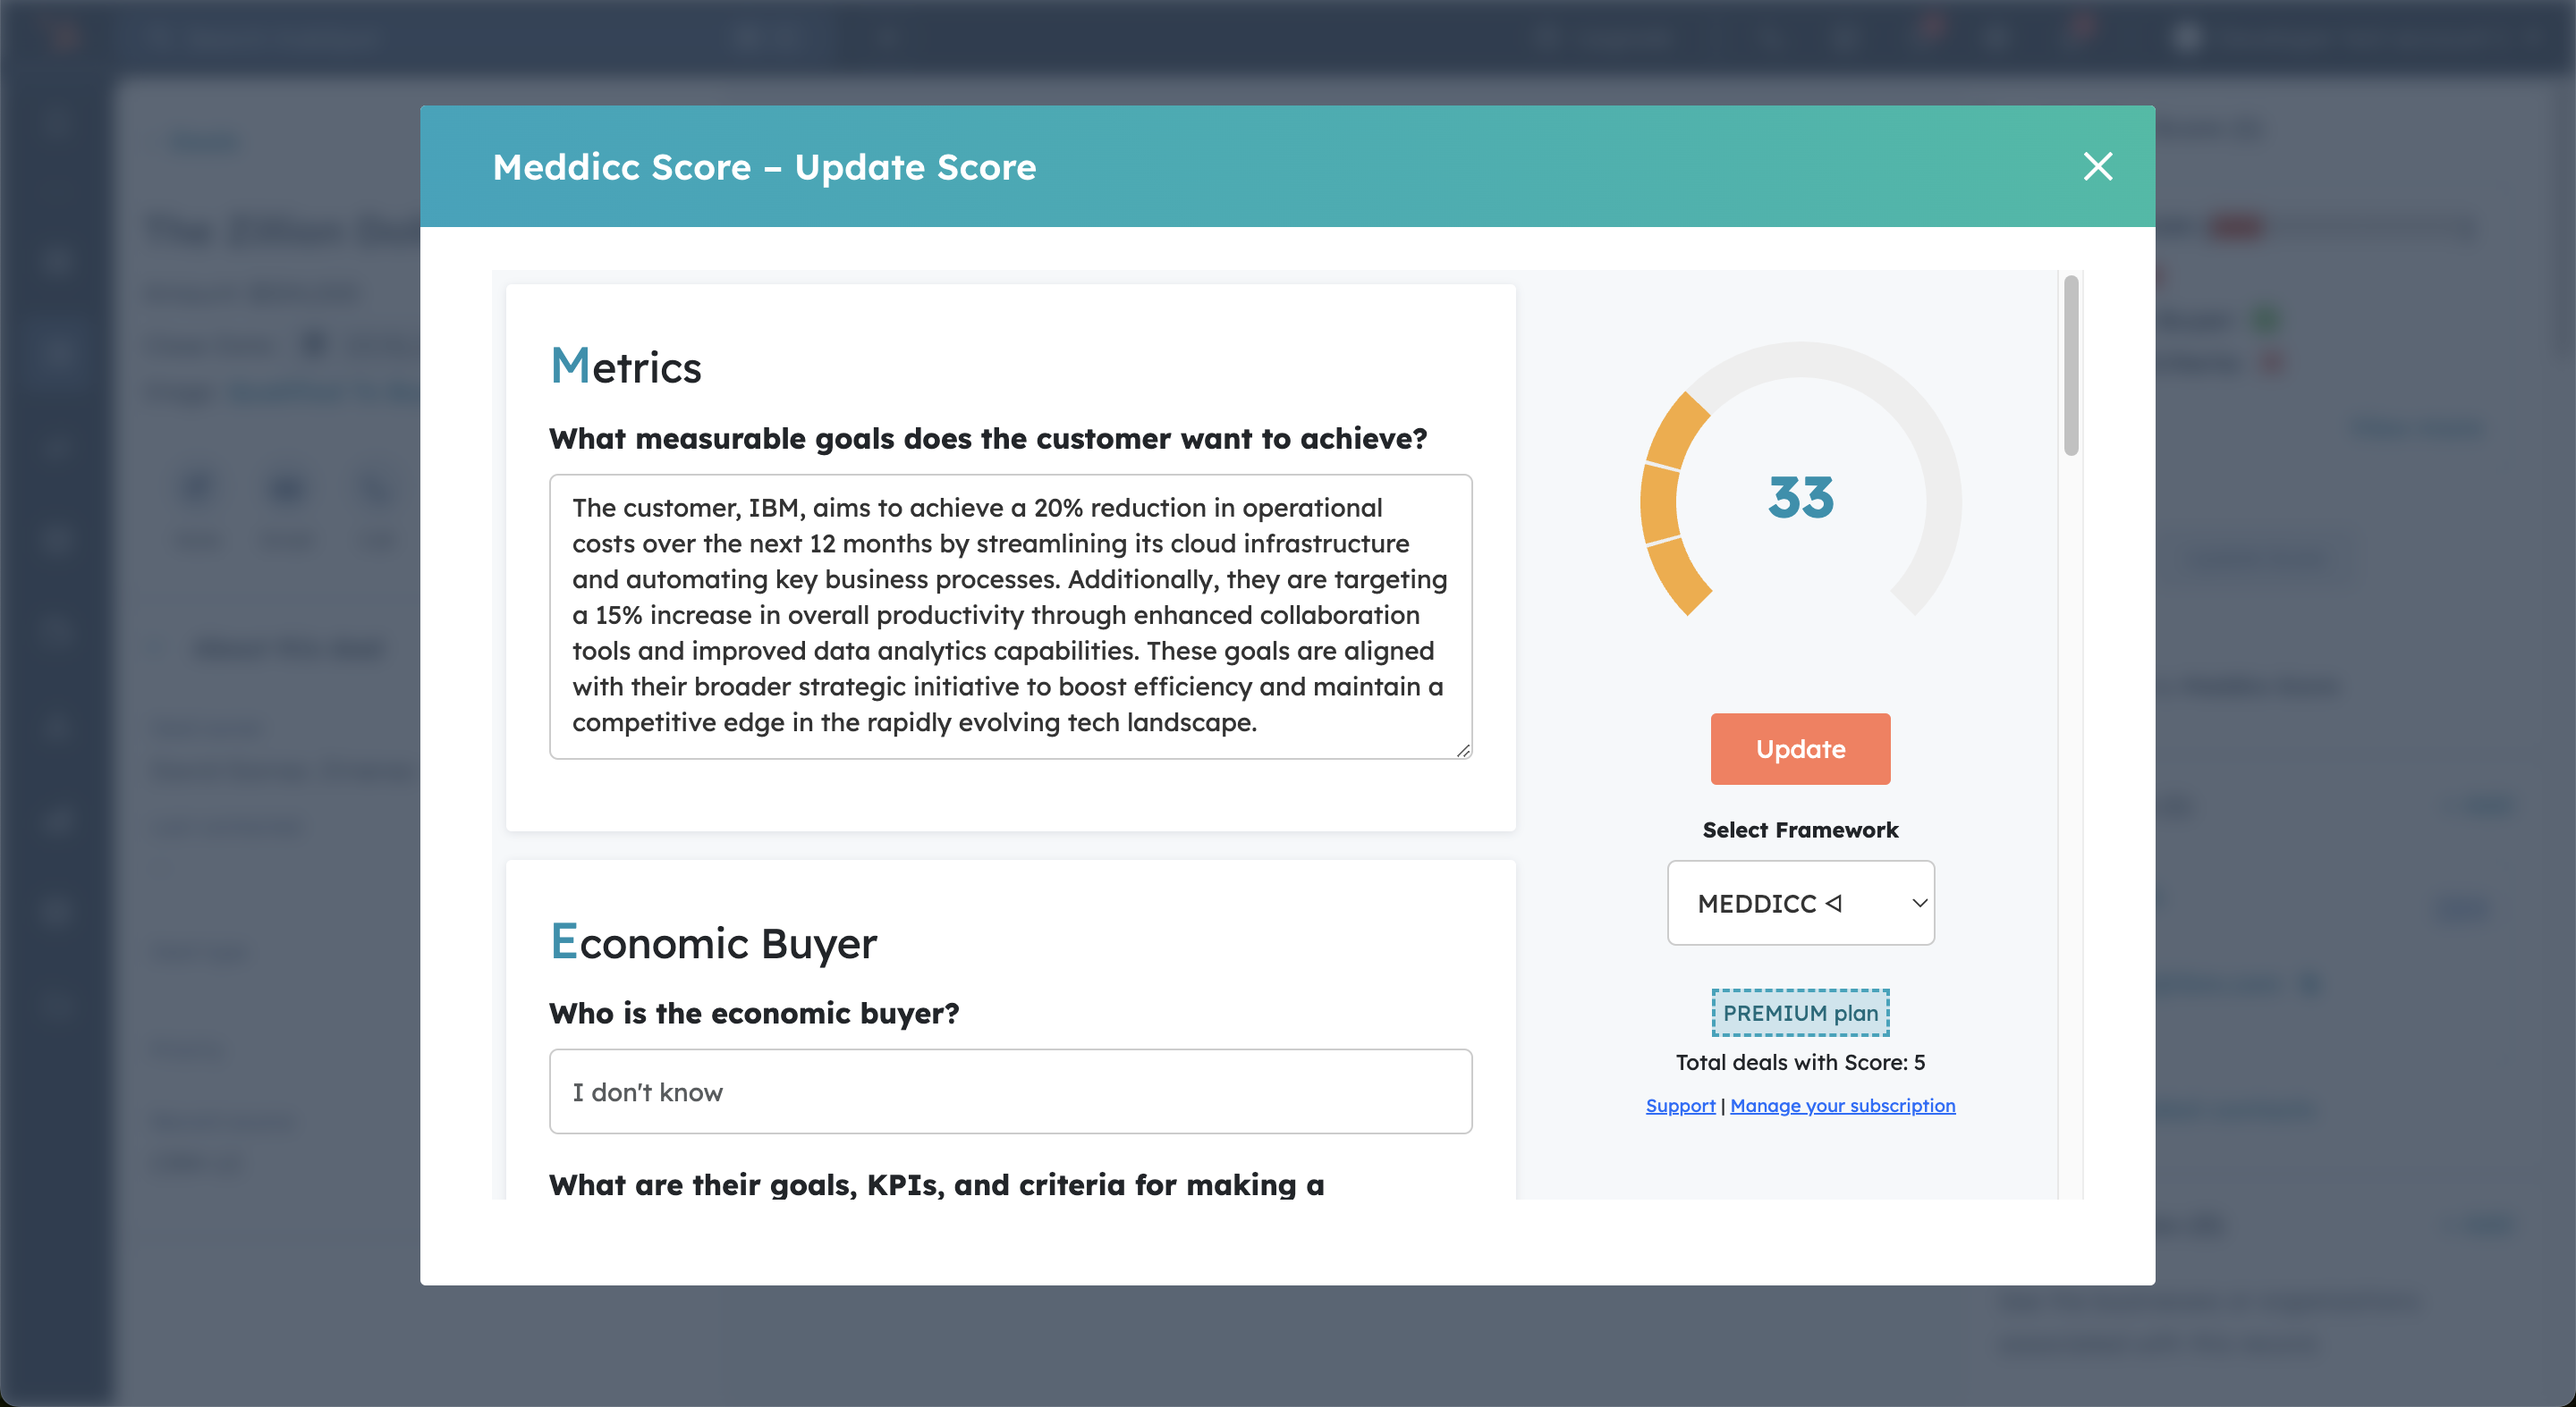
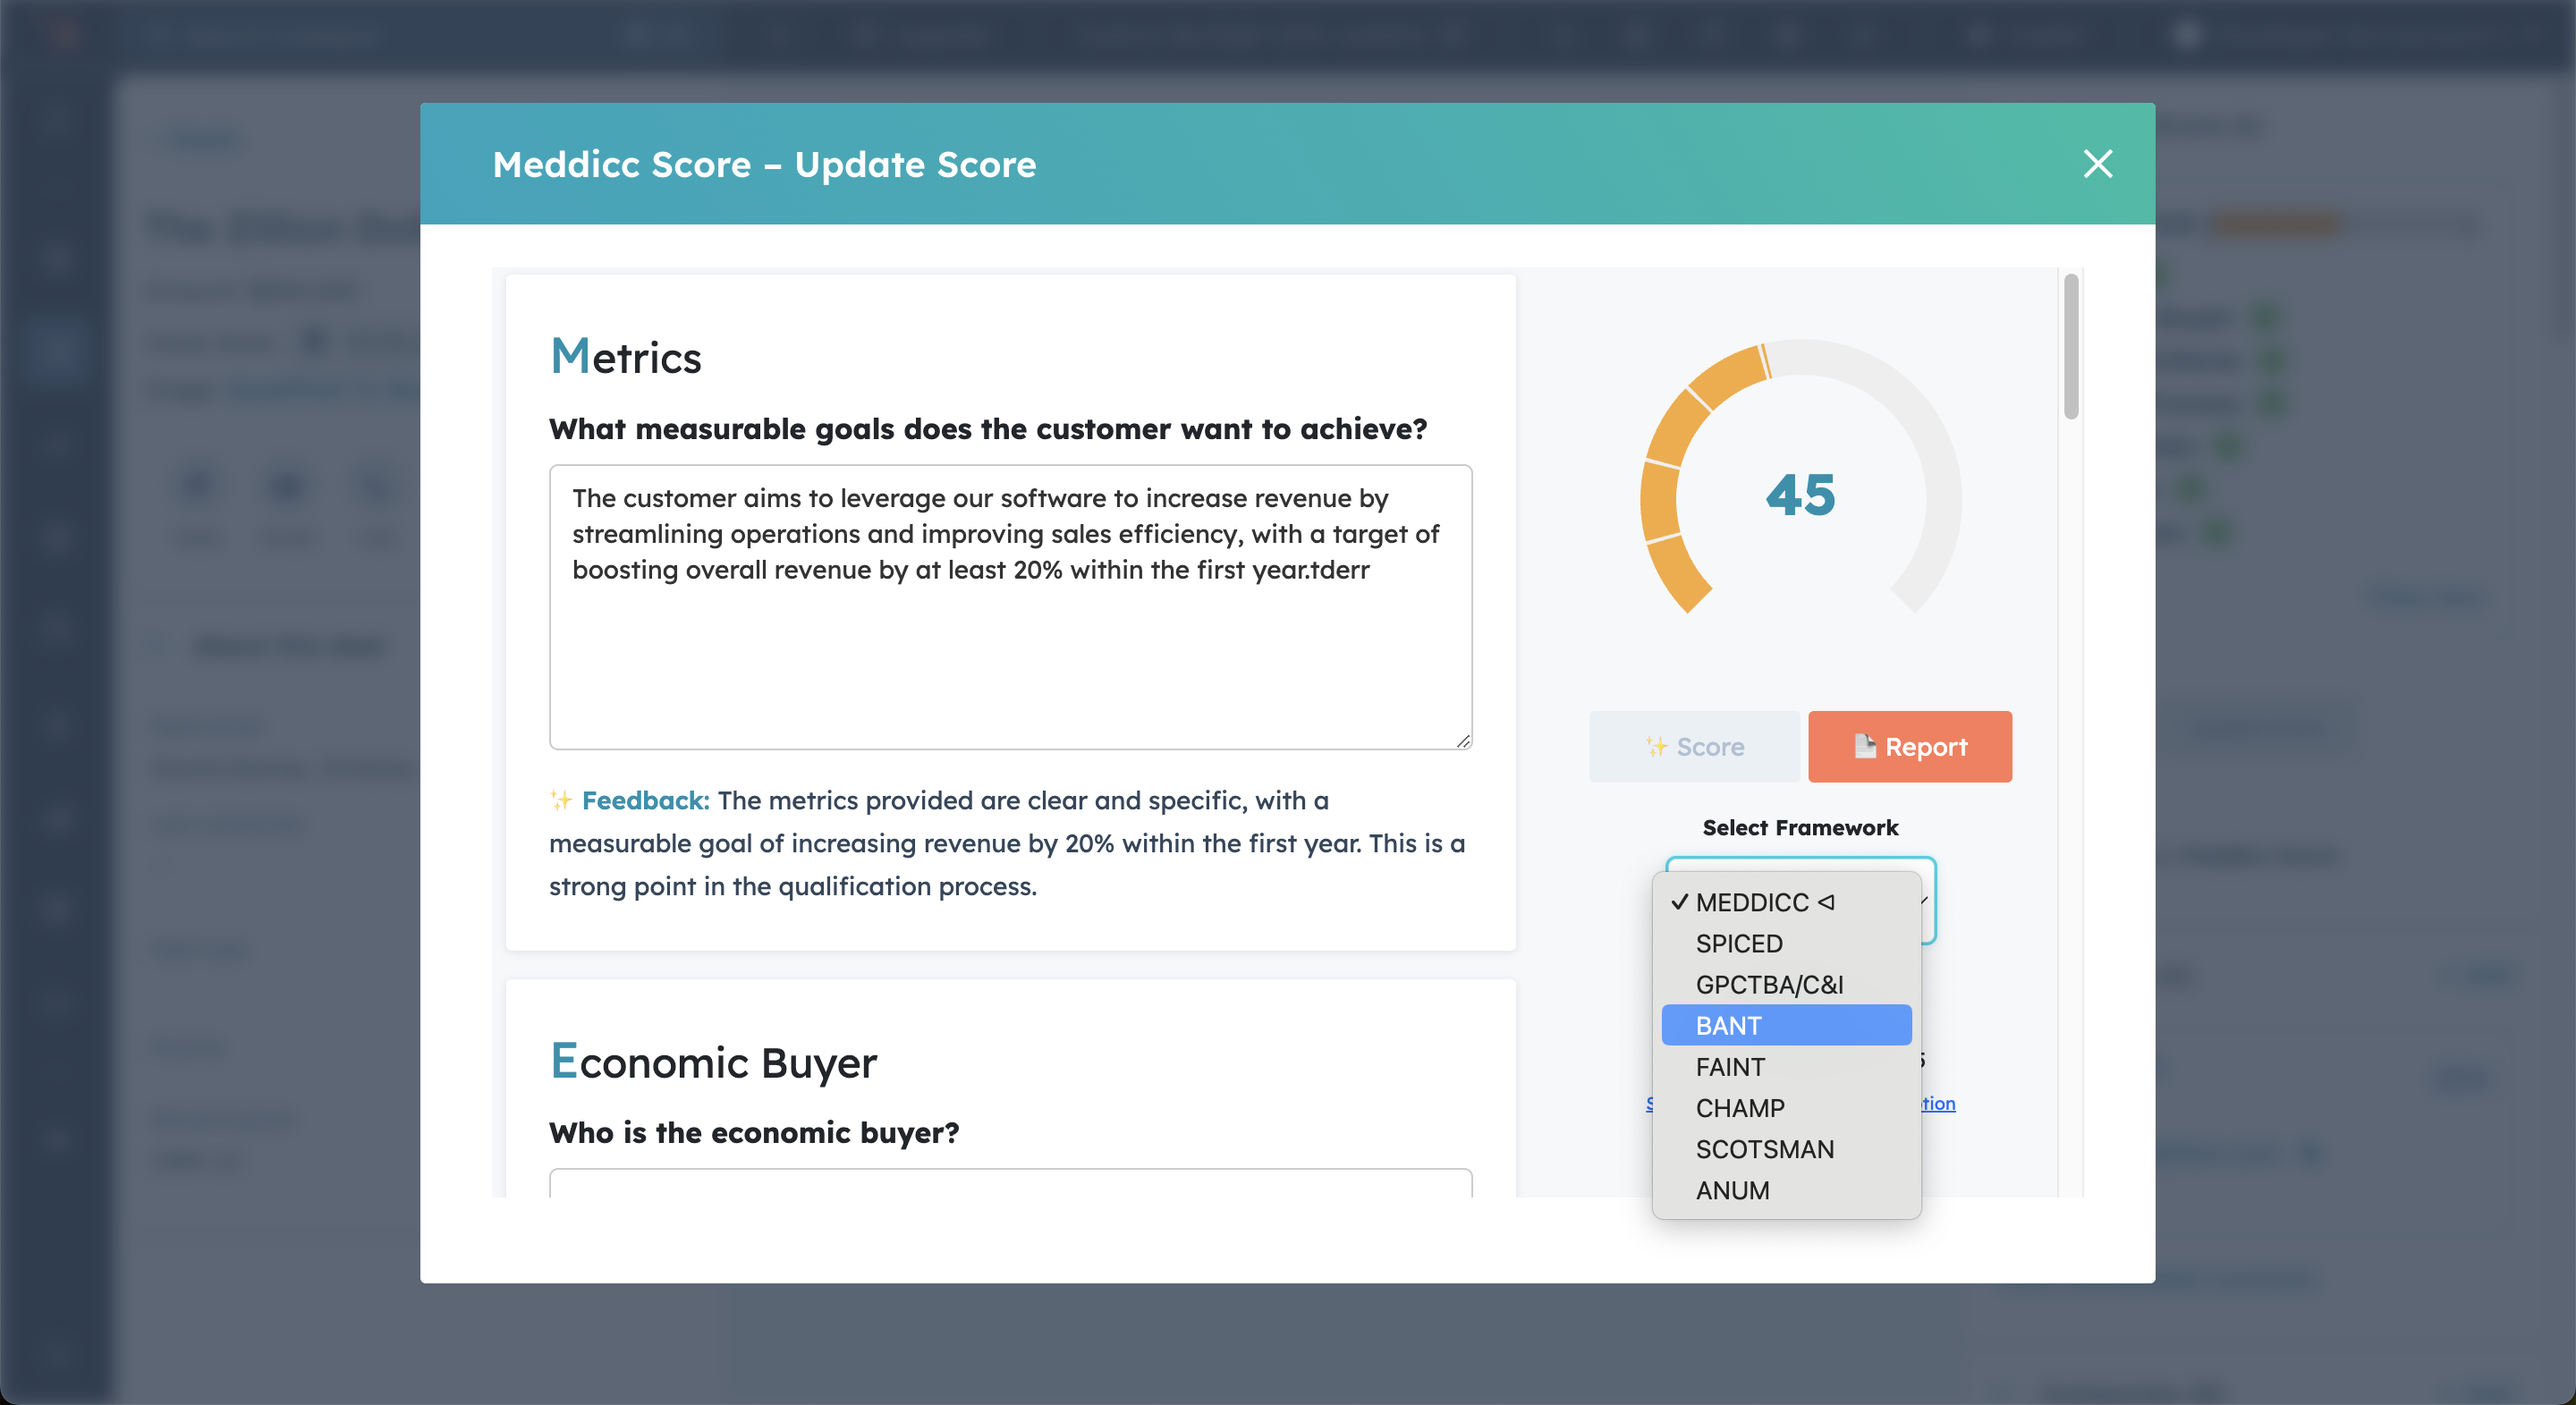
updat4 guide

diff --git a/_posts/2023-01-01-setup-guide.md b/_posts/2023-01-01-setup-guide.md
@@ -45,11 +45,20 @@ Locate Meddicc Score within the HubSpot sidebar under Deal.
 
 **6. Begin Scoring**
 
-Start using Meddicc Score to complete the information form the Deal and get an score.
+Select the qualification framework that you prefer for this deal.
+Start using Meddicc Score to complete the information form for that Deal.
+When clicking on Score, the AI model will return a Score based on the data introduced and feedback for every step.
 
 ![Begin Scoring](../../assets/images/guide4.png)
 
-**7. Upgrade to Premium**
+**6. Report and Export**
+
+Clicking on Report, a full pipeline summary can be found.
+From the report is possible to download a CSV with all the notes and scores saved.
+
+![Reporting](../../assets/images/guide8.png)
+
+**8. Upgrade to Premium**
 
 If you like Meddicc Score and want to use it for more than 5 deals, you can upgrade easily from the own app.
 
